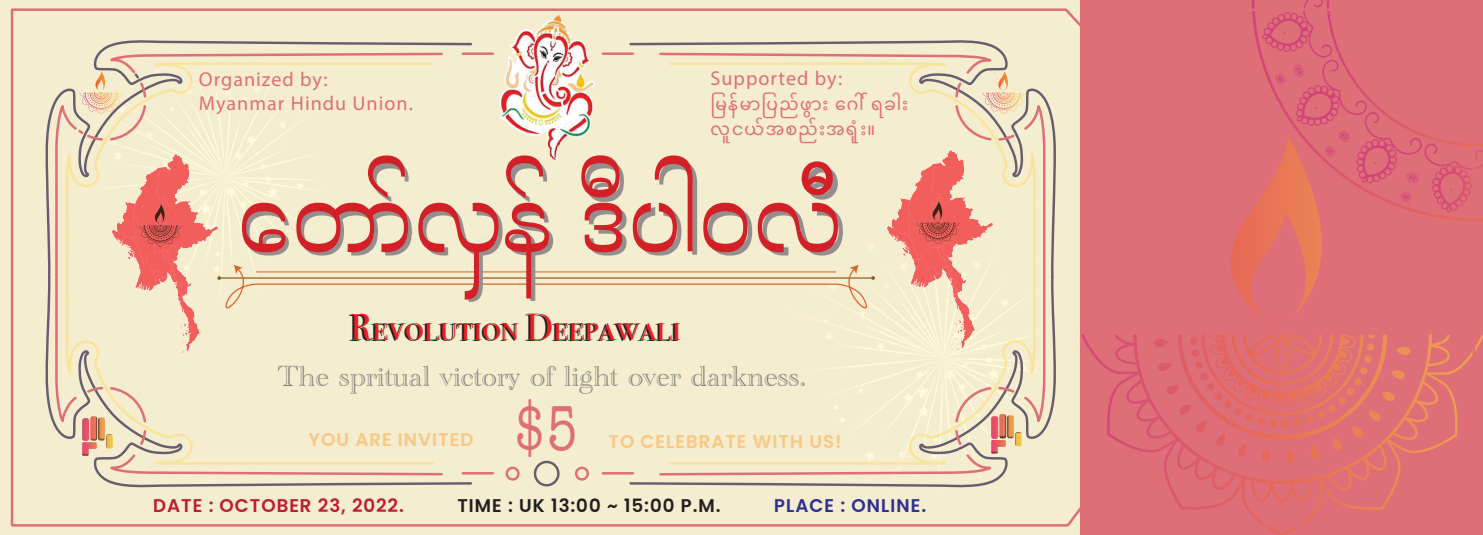
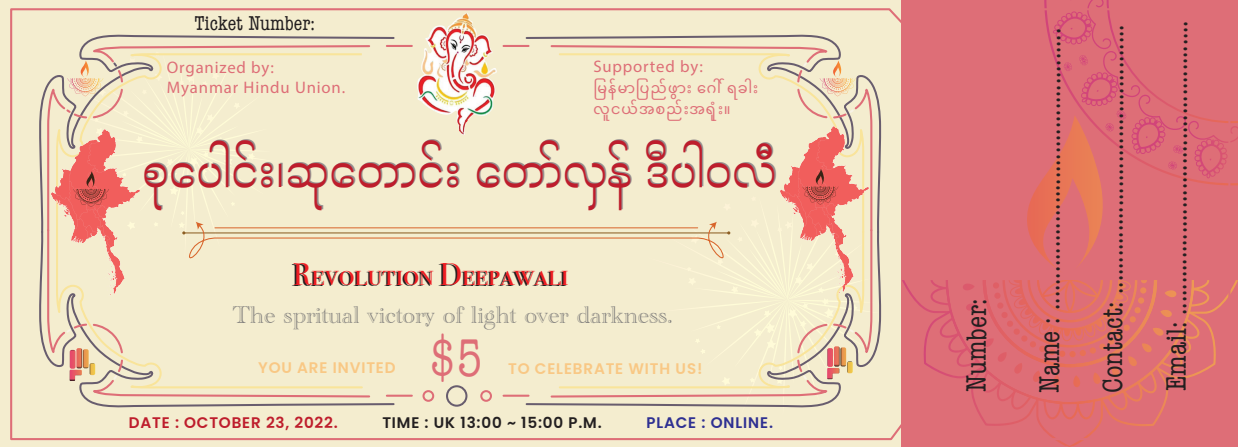
Updated the latest ticket design and css

diff --git a/src/views/Ticket.tsx b/src/views/Ticket.tsx
@@ -33,10 +33,11 @@ export const Ticket = () => {
   return (
     <>
       <div className="head-image" style={{ maxWidth: "768px" }} ref={printRef}>
+        <p className="in-the-ticket-region"> {`${ticketNumber}`}</p>
         <img src={Raffle} alt="Raffle" className="ticket" />
         <div className="text-on-image">
           <div className="text-on-image-innerwrapper">
-            <p> {`${ticketNumber}`}</p>
+            <p style={{marginTop: '5px'}}> {`${ticketNumber}`}</p>
             <p> {`${name}`}</p>
             <p> {`${country}`}</p>
             <p> {`${contact}`}</p>

diff --git a/src/statics/_ticket.css b/src/statics/_ticket.css
@@ -48,17 +48,14 @@
   height: 75%;
   padding: 0 10px;
   overflow: hidden;
-  width: 85%;
-  border: 1px solid wheat;
-  margin: 25px auto;
-  border-radius: 6px;
+  width: 70%;
+  margin: 25px auto 25px 85px;
 }
 
 .text-on-image p {
-  margin: 5px 0 0 0;
+  margin: 7px 0 0 0;
   padding: 0;
   display: block;
-  width: 100%;
   overflow: hidden;
   text-overflow: ellipsis;
 }
